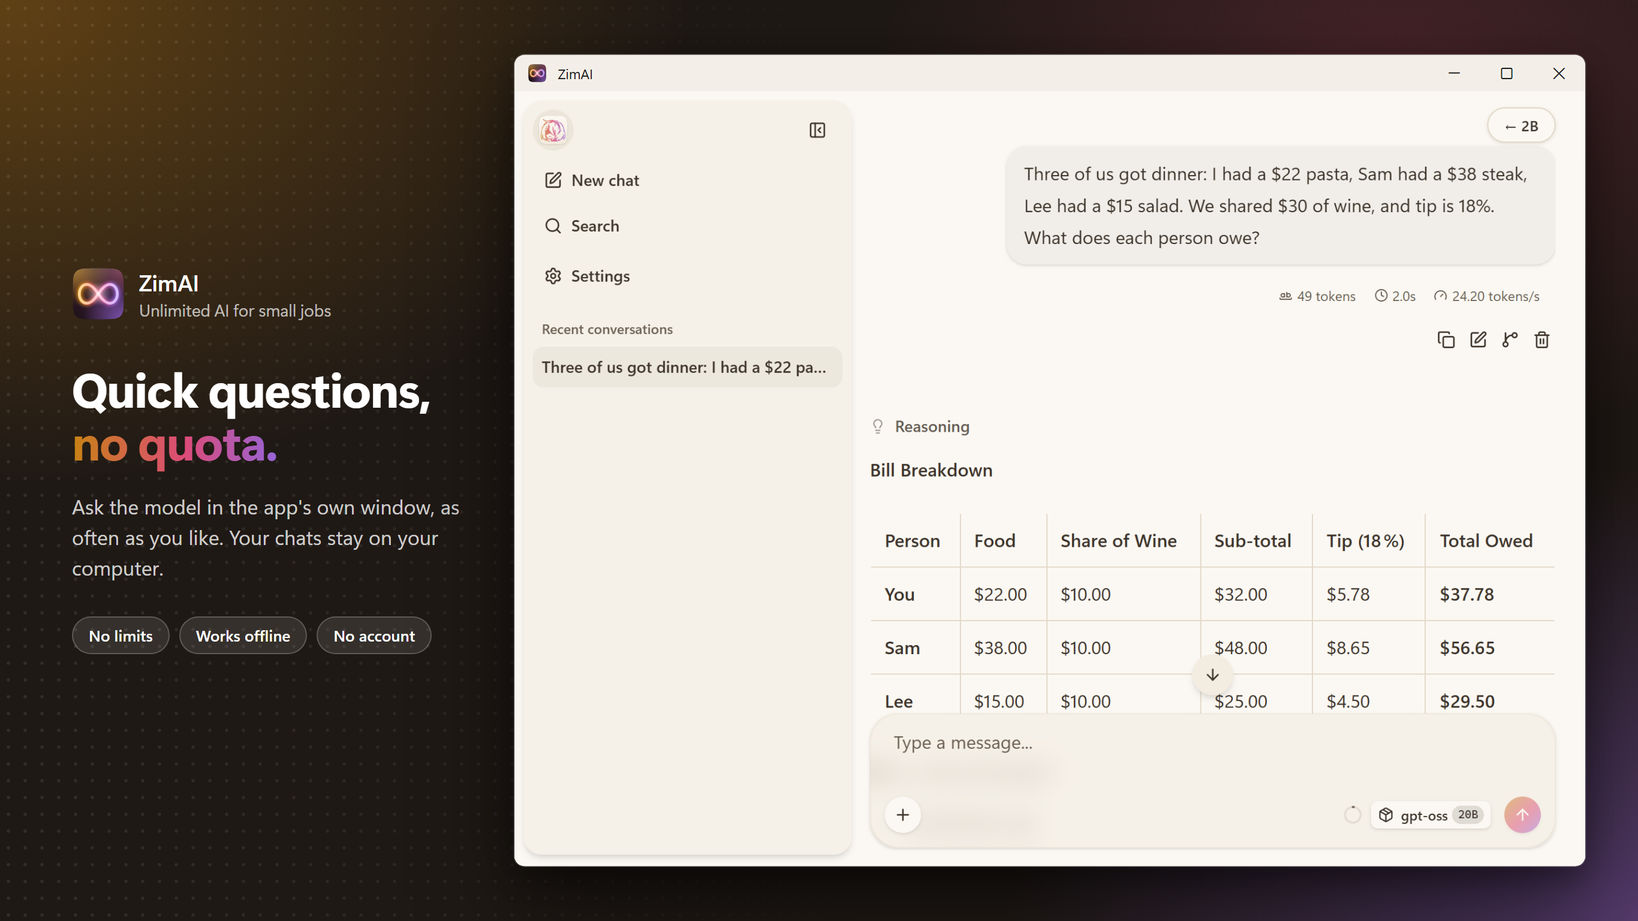
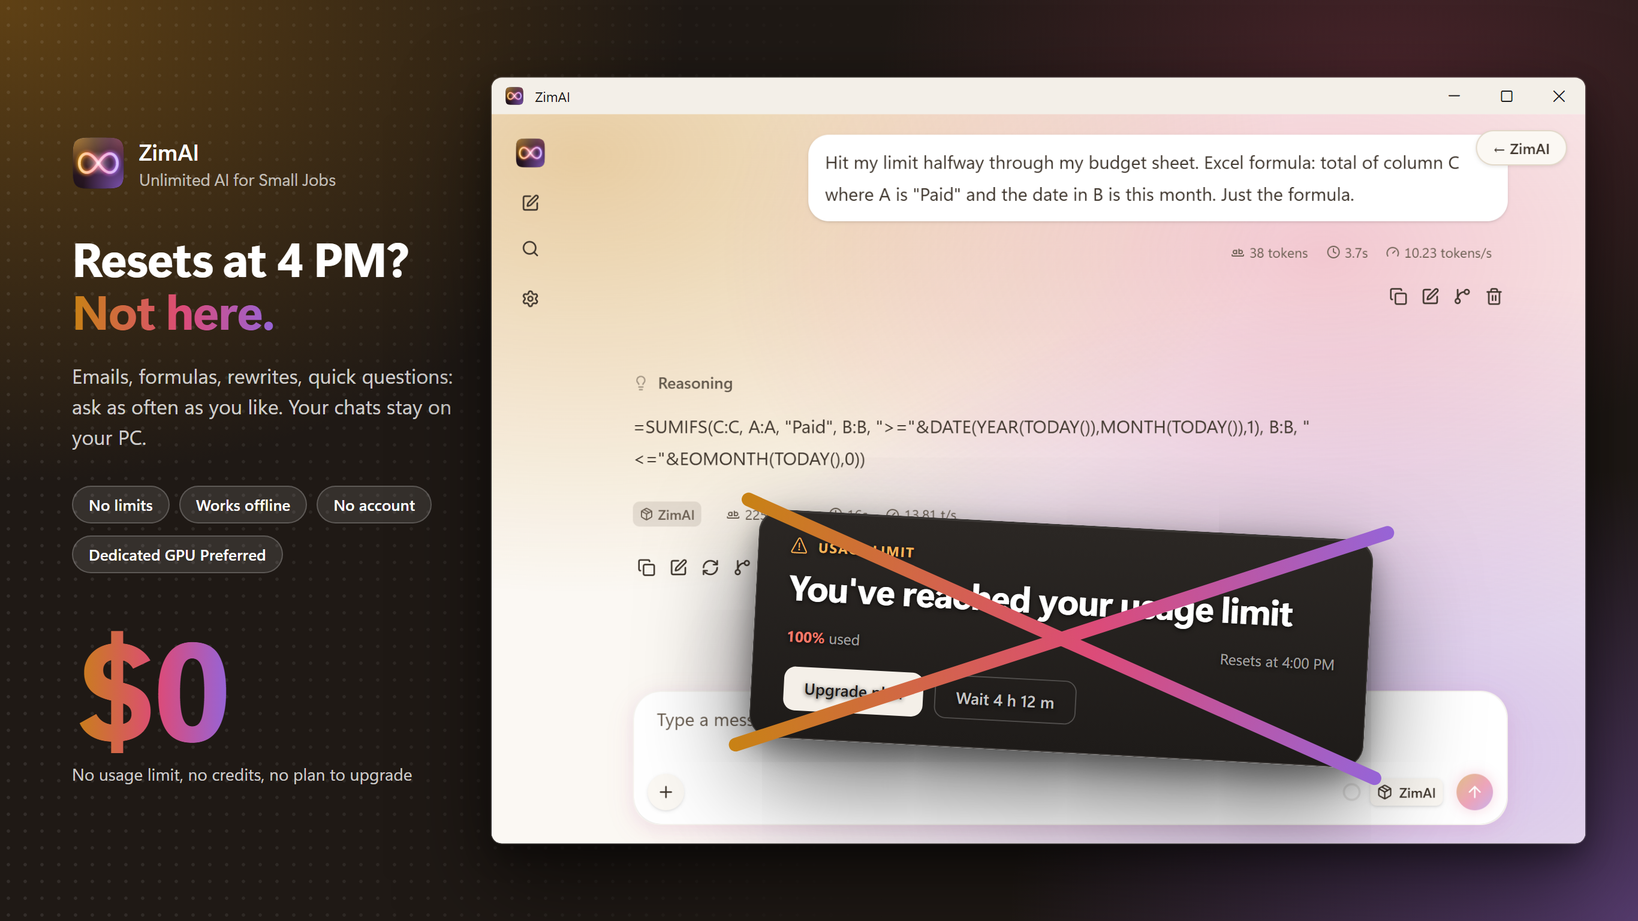
Store screenshots: the usage limit, crossed out; the slogan in title case
Four screenshots, one line each from POSITIONING.md: "Hit your limit? Keep
going.", "Resets at 4 PM? Not here.", "Your AI runs out. Your PC didn't." and
"The AI that never says come back later." Shots 1 and 2 show a job cut off
mid-task (an email, an Excel formula) finished in Chat, under a generic
usage-limit dialog crossed out by a big X; shot 3 the home page with Chat
hovered; shot 4 the terminal. Every shot has the same pills, Dedicated GPU
Preferred and a big $0. All show the app as it is now, at 960 x 640.

The Chat captures come from chat.ps1: the real model's answers in a headless
Edge with a profile of its own, styled as the window styles the page, in place
of the manual capture. "Unlimited AI for Small Jobs" is in title case
everywhere, the box art and poster included.

diff --git a/store-listing/generator/shots.html b/store-listing/generator/shots.html
@@ -1,9 +1,9 @@
 <!doctype html>
 <!-- The Store's screenshots: render.ps1 loads this page at 1366 x 768 (rendered at 2x) once per shot, named by the
-     hash (#promo, #chat, #home). Each is a caption on the left and the real app on the right: the home page
-     (src/ui/home.html) drawing the state ZimAI.exe would send it, the terminal demo (docs/demo.svg) stopped at a
-     moment, or a capture of the Chat page (chat.png). Needs Edge's --allow-file-access-from-files, to read those
-     files from file://. -->
+     hash (#limit, #chat, #home, #terminal). Each is a caption on the left, its line from docs/POSITIONING.md, and the
+     real app on the right: the home page (src/ui/home.html) drawing the state ZimAI.exe would send it, the terminal
+     demo (docs/demo.svg) stopped at a moment, or a capture of the Chat page (chat-*.png, by chat.ps1). Needs Edge's
+     --allow-file-access-from-files, to read those files from file://. -->
 <html lang="en">
 <head>
 <meta charset="utf-8">
@@ -21,48 +21,50 @@
   .caption p { margin: 20px 0 0; font: 400 17px/1.5 "Segoe UI Variable Text", "Segoe UI", sans-serif; color: rgba(255, 255, 255, 0.78); }
   /* One row, though it may run a few pixels past the column. */
   .facts { display: flex; gap: 8px; width: max-content; margin-top: 28px; }
-  /* #promo: the price, big, and what it means; then the model's numbers. */
+  .facts.gpu { margin-top: 10px; }   /* what it needs, on a row of its own */
+  /* Every shot: the price, big, and what it means. */
   .size { margin-top: 34px; width: 310px; }
-  .size b { display: block; width: max-content; font-size: 58px; line-height: 1; font-weight: 700; letter-spacing: -0.03em; }
+  .size b { display: block; width: max-content; font-size: 116px; line-height: 1; font-weight: 700; letter-spacing: -0.03em; }
   .scale { display: flex; justify-content: space-between; margin: 8px 0 0; font: 400 14px "Segoe UI Variable Text", "Segoe UI", sans-serif; color: rgba(255, 255, 255, 0.78); }
-  .stats { display: flex; gap: 30px; margin-top: 30px; }
-  .stats b { display: block; font-size: 28px; line-height: 1.1; font-weight: 700; }
-  .stats span { font: 400 13px/1.4 "Segoe UI Variable Text", "Segoe UI", sans-serif; color: rgba(255, 255, 255, 0.7); }
-  /* #home: the GPUs, by verdict: each verdict in its color, each GPU outlined in the brand gradient. */
-  .tier { margin-top: 22px; }
-  .verdict { display: flex; align-items: baseline; gap: 8px; font: 700 15px "Segoe UI Variable Text", "Segoe UI", sans-serif; }
-  .verdict b { font-weight: inherit; }
-  .verdict.great b { background: var(--brand); -webkit-background-clip: text; background-clip: text; color: transparent; }
-  .verdict.good b { color: #f07fa3; }
-  .verdict.slow b { color: #e8b25a; }
-  .verdict span { font-weight: 400; font-size: 14px; color: rgba(255, 255, 255, 0.6); }
-  .gpus { display: flex; flex-wrap: wrap; gap: 6px; margin-top: 9px; }
-  .gpus span {
-    padding: 4px 10px; border-radius: 999px; font: 600 12px "Segoe UI Variable Text", "Segoe UI", sans-serif;
-    border: 1px solid transparent;
+  /* #limit and #chat: the moment it's for, an AI's usage-limit dialog, generic (no product's look or words), over the part of
+     the window where it would stop you, and crossed out in the brand gradient. */
+  .wall { position: absolute; left: 230px; top: 392px; width: 540px; z-index: 3; transform: rotate(-3deg); }
+  .wall-card {
+    position: relative; padding: 22px 28px 24px; border-radius: 20px; color: #fff;
+    background: linear-gradient(180deg, #2b2724, #1e1b19); border: 1px solid rgba(255, 255, 255, 0.13);
+    box-shadow: inset 0 1px 0 rgba(255, 255, 255, 0.08), 0 34px 90px rgba(0, 0, 0, 0.6), 0 10px 26px rgba(0, 0, 0, 0.4);
+    font-family: "Segoe UI Variable Text", "Segoe UI", sans-serif;
   }
-  /* One gradient across the caption column (fixed to the page), not one per chip, so neighbours blend. */
-  .gpus span {
-    background: linear-gradient(#2a211c, #2a211c) padding-box, var(--brand) border-box;
-    background-attachment: scroll, fixed; background-size: auto, 330px 100%; background-position: 0 0, 60px 0;
+  .wall-head { display: flex; align-items: center; gap: 8px; font: 700 12px "Segoe UI", sans-serif; letter-spacing: 0.08em;
+               text-transform: uppercase; color: #f2b45a; }
+  .wall-head i { font: normal 15px "Segoe Fluent Icons", "Segoe MDL2 Assets"; }
+  .wall-card b { display: block; margin-top: 10px; font: 700 31px/1.12 "Segoe UI Variable Display", "Segoe UI", sans-serif;
+                 letter-spacing: -0.02em; }
+  .meter { margin-top: 18px; }
+  .meter-text { display: flex; justify-content: space-between; font-size: 13px; color: rgba(255, 255, 255, 0.6); }
+  .meter-text b { display: inline; margin: 0; font: 700 13px "Segoe UI", sans-serif; color: #f07a6a; letter-spacing: 0; }
+  .wall-buttons { display: flex; gap: 10px; margin-top: 18px; }
+  .wall-buttons span { padding: 9px 18px; border-radius: 10px; font: 600 14px "Segoe UI", sans-serif; }
+  .wall-buttons span:first-child { background: #f4efe8; color: #1e1b19; }
+  .wall-buttons span:last-child { border: 1px solid rgba(255, 255, 255, 0.22); color: rgba(255, 255, 255, 0.75); }
+  /* The cross: two strokes, corner past corner, on top of everything, the dialog's words included. */
+  .wall-card::before, .wall-card::after {
+    content: ""; position: absolute; left: -7%; right: -7%; top: 50%; height: 12px; margin-top: -6px; border-radius: 6px;
+    z-index: 2;
+    background: linear-gradient(90deg, var(--gold), var(--rose) 55%, var(--violet));
   }
-  /* #promo: the moment it's for, a cloud AI's usage-limit notice, generic (no product's look or words), dimmed. */
-  .limit {
-    display: flex; gap: 12px; align-items: flex-start; margin-bottom: 26px; padding: 13px 16px; border-radius: 10px;
-    background: rgba(255, 255, 255, 0.06); border: 1px solid rgba(255, 255, 255, 0.16);
-    font: 400 14px/1.45 "Segoe UI Variable Text", "Segoe UI", sans-serif; color: rgba(255, 255, 255, 0.62);
-  }
-  .limit i { font: normal 18px/1.2 "Segoe Fluent Icons", "Segoe MDL2 Assets"; color: #e8b25a; }
-  .limit b { display: block; font-weight: 600; color: rgba(255, 255, 255, 0.88); }
+  .wall-card::before { transform: rotate(21deg); }
+  .wall-card::after { transform: rotate(-21deg); }
+  .wall-card > * { position: relative; z-index: 1; text-shadow: 0 1px 4px rgba(0, 0, 0, 0.75); }
   .facts span {
     padding: 6px 13px; border-radius: 999px; font: 600 13px "Segoe UI Variable Text", "Segoe UI", sans-serif;
     background: rgba(255, 255, 255, 0.1); border: 1px solid rgba(255, 255, 255, 0.2);
   }
 
-  /* The window, at the app's own size (940 x 680, app/Window.cs), scaled to the height of the shot. */
+  /* The window, at the app's own size (960 x 640, app/Window.cs), scaled to clear the caption. */
   .window {
     position: absolute; right: 44px; top: 50%; transform-origin: right center; transform: translateY(-50%) scale(0.95);
-    width: 940px; border-radius: 9px; overflow: hidden; background: var(--bg);
+    width: 960px; border-radius: 9px; overflow: hidden; background: var(--bg);
     box-shadow: 0 0 0 1px rgba(255, 255, 255, 0.14), 0 32px 80px rgba(0, 0, 0, 0.55), 0 10px 24px rgba(0, 0, 0, 0.3);
   }
   /* A Windows 11 title bar, with the icon and title ZimAI.exe and its terminal both set. */
@@ -70,91 +72,96 @@
   .titlebar img { width: 16px; height: 16px; margin: 0 10px 0 12px; }
   .titlebar span { flex: 1; }
   .titlebar i { width: 46px; text-align: center; font: normal 10px "Segoe Fluent Icons", "Segoe MDL2 Assets"; }
-  .client { display: block; width: 940px; height: 680px; border: 0; background: var(--bg); }
+  .client { display: block; width: 960px; height: 640px; border: 0; background: var(--bg); }
   /* demo.svg without its own title bar; a line cut by the top of its screen fades out. */
-  svg.client { height: 685px; mask-image: linear-gradient(transparent 0, #000 36px); }
+  svg.client { mask-image: linear-gradient(transparent 0, #000 36px); }
 </style>
 </head>
 <body>
   <div class="caption">
-    <div class="app"><img src="../../src/ui/icon.svg" alt=""><span>ZimAI<small>Unlimited AI for small jobs</small></span></div>
-    <div id="limit"></div>
+    <div class="app"><img src="../../src/ui/icon.svg" alt=""><span>ZimAI<small>Unlimited AI for Small Jobs</small></span></div>
     <h1 id="title"></h1>
     <p id="text"></p>
     <div class="facts" id="facts"></div>
-    <div id="numbers"></div>
+    <div class="facts gpu"><span>Dedicated GPU Preferred</span></div>
+    <div class="size">
+      <b class="brand">$0</b>
+      <div class="scale"><span>No usage limit, no credits, no plan to upgrade</span></div>
+    </div>
   </div>
   <div class="window">
+    <div class="wall"><div class="wall-card">
+      <div class="wall-head"><i>&#xE7BA;</i>Usage limit</div>
+      <b>You've reached your usage limit</b>
+      <div class="meter">
+        <div class="meter-text"><span><b>100%</b> used</span><span>Resets at 4:00 PM</span></div></div>
+      <div class="wall-buttons"><span>Upgrade plan</span><span>Wait 4 h 12 m</span></div>
+    </div></div>
     <div class="titlebar"><img src="../../src/ui/icon.svg" alt=""><span>ZimAI</span><i>&#xE921;</i><i>&#xE922;</i><i>&#xE8BB;</i></div>
   </div>
 
 <script>
 // What ZimAI.exe sends the home page on this developer's PC (an RTX 5060 Laptop GPU with 8 GB and 16 GB of RAM), as in
-// app/*.cs; the plan is llama-fit-params' for it.
+// app/Window.cs (Push); the plan is the one its server ran with (logs/server-plan).
 const MODEL = { name: "GPT OSS 20B", size: 12109566624, parameters: "20.9", license: "Apache-2.0", need: 12109566624, free: 412e9, drive: "C:" };
-const SYSTEM = { name: "NVIDIA GeForce RTX 5060 Laptop GPU", vram: 8, ram: 16, cuda: "12.8", gpuUsable: true, useGpu: true,
+const SYSTEM = { name: "NVIDIA GeForce RTX 5060 Laptop GPU", vram: 8, ram: 15.7, cuda: "12.8", gpuUsable: true, useGpu: true,
                  verdict: "good", reason: null };
 const READY = {
   version: "1.1.0", system: SYSTEM, model: { ...MODEL, ready: true }, download: null,
-  server: { state: "ready", plan: { context: 65536, gpu: 5896, ram: 7673 } }, error: null,
+  server: { state: "ready", plan: { context: 131072, gpu: 5880, ram: 10907, mapped: 1 } }, error: null,
 };
 
-// The promo shot's numbers: what it costs (nothing, however much it's used), then the model.
-const NUMBERS = `
-      <div class="size">
-        <b class="brand">$0</b>
-        <div class="scale"><span>No credits, no rate limits, no account, no API key</span></div>
-      </div>
-      <div class="stats">
-        <div><b>20.9&nbsp;B</b><span>total<br>parameters</span></div>
-        <div><b>128&nbsp;k</b><span>tokens of context<br>on a GPU</span></div>
-      </div>`;
-
-// Popular GPUs by the verdict ZimAI's check gives them (app/Requirements.cs), with 16 GB of RAM: Great is 16 GB of
-// VRAM or more, Good is an RTX with 8 to 12 GB, Slow is 6 GB or a GTX 10-series (no tensor cores).
-const GPUS = [
-  ["great", "Great", "the whole model on the GPU", ["RTX 5090", "RTX 5080", "RTX 5070 Ti", "RTX 5060 Ti 16 GB", "RTX 4090", "RTX 4080", "RTX 4070 Ti Super", "RTX 4060 Ti 16 GB", "RTX 3090"]],
-  ["good", "Good", "desktop and laptop", ["RTX 5070", "RTX 5060", "RTX 4070", "RTX 4060", "RTX 3080", "RTX 3070", "RTX 3060 12 GB", "RTX 2080", "RTX 2070", "RTX 2060 Super"]],
-  ["slow", "Slow", "works, replies come slower", ["RTX 2060", "GTX 1660", "GTX 1080 Ti", "GTX 1080", "GTX 1070", "GTX 1060 6 GB"]],
-].map(([tier, verdict, note, names]) => `
-  <div class="tier ${tier}"><div class="verdict ${tier}"><b>${verdict}</b><span>${note}</span></div>
-  <div class="gpus">${names.map(n => `<span>${n}</span>`).join("")}</div></div>`).join("");
-
-// The same on every shot: what it needs, and what it doesn't.
+// The same on every shot, with the GPU pill and the price (above): what it needs, and what it doesn't.
 const FACTS = ["No limits", "Works offline", "No account"];
 
-// Each shot: its caption, the need it meets in the customer's words, and what's in the window: a home page state,
-// the demo at a time (s), or an image of the window's contents at 940 x 680 (chat.png: a capture of the real Chat
-// page, at 2x).
+// Each shot, in upload order: its line (docs/POSITIONING.md), the need it meets in the customer's words, and what's
+// in the window: a home page state, the demo at a time (s), or an image of the window's contents at 960 x 640
+// (chat-*.png: captures of the real Chat page at 2x, by chat.ps1).
 const SHOTS = {
-  promo: {
-    limit: true,
-    title: 'Out of credits? <span class="brand">Not here.</span>',
-    text: "For the jobs your cloud AI's limits shouldn't go to. It reads, runs and edits on your PC, asking first.",
-    numbers: NUMBERS,
-    demo: 12.3,
+  limit: {
+    title: 'Hit your limit? <span class="brand">Keep going.</span>',
+    text: "When your AI stops halfway through, ZimAI picks up the job, on your own PC, with no limit of its own.",
+    image: "chat-limit.png",
+    wall: true,
   },
   chat: {
-    title: 'Quick questions, <span class="brand">no quota.</span>',
-    text: "Ask the model in the app's own window, as often as you like. Your chats stay on your computer.",
-    image: "chat.png",
+    title: 'Resets at 4 PM? <span class="brand">Not here.</span>',
+    text: "Emails, formulas, rewrites, quick questions: ask as often as you like. Your chats stay on your PC.",
+    image: "chat-everyday.png",
+    wall: true,
+    tilt: 3,   // the other way from shot 1's, so the two don't look copied
   },
   home: {
-    title: 'On the PC <span class="brand">you already have.</span>',
-    text: "Your GeForce, or just the CPU. ZimAI checks your PC before downloading, then fits the model to it.",
-    numbers: GPUS,
+    title: "Your AI runs out. <span class=\"brand\">Your PC didn't.</span>",
+    text: "It runs on your own PC: your GeForce, or just the CPU. ZimAI checks it before downloading, then fits the model to it.",
     home: READY,
+    hover: "chat",   // the home page's Chat card, as under the pointer
+  },
+  terminal: {
+    title: 'The AI that never says <span class="brand">come back later.</span>',
+    text: "For developers, a terminal that works in your projects. It reads, runs and edits on your PC, asking first.",
+    demo: 12.3,
   },
 };
+
+// An element of the home page shown as under the pointer: the page's own :hover rules, given to it as a class.
+function hover(doc, id) {
+  const sheet = [...doc.styleSheets].find(s => s.ownerNode.tagName === "STYLE");
+  for (const rule of [...sheet.cssRules]) {
+    if (rule.selectorText && rule.selectorText.includes(":hover")) {
+      sheet.insertRule(rule.cssText.replaceAll(":hover", ".hover"), sheet.cssRules.length);
+    }
+  }
+  doc.getElementById(id).classList.add("hover");
+}
 
 const shot = SHOTS[location.hash.slice(1)];
 if (!shot) throw new Error("Unknown shot " + location.hash);
-document.getElementById("limit").outerHTML = shot.limit
-  ? `<div class="limit"><i>&#xE7BA;</i><span><b>You've reached your usage limit.</b>Your limit resets in 4 h 12 m.</span></div>` : "";
+if (!shot.wall) document.querySelector(".wall").remove();
+else if (shot.tilt) document.querySelector(".wall").style.transform = `rotate(${shot.tilt}deg)`;
 document.getElementById("title").innerHTML = shot.title;
 document.getElementById("text").textContent = shot.text || "";
 if (!shot.text) document.getElementById("text").remove();
-document.getElementById("numbers").innerHTML = shot.numbers || "";
 document.getElementById("facts").innerHTML = FACTS.map(f => `<span>${f}</span>`).join("");
 const win = document.querySelector(".window");
 
@@ -164,7 +171,10 @@ if (shot.image) {
   const frame = document.createElement("iframe");
   frame.className = "client";
   frame.src = "../../src/ui/home.html";
-  frame.onload = () => frame.contentWindow.render(shot.home);
+  frame.onload = () => {
+    frame.contentWindow.render(shot.home);
+    if (shot.hover) hover(frame.contentDocument, shot.hover);
+  };
   win.append(frame);
 } else {
   // The demo, stopped at its time, without its own (macOS-style) title bar: the window has one.
@@ -172,7 +182,7 @@ if (shot.image) {
     win.insertAdjacentHTML("beforeend", text);
     const svg = win.querySelector("svg");
     svg.classList.add("client");
-    svg.setAttribute("viewBox", "0 35 940 685");
+    svg.setAttribute("viewBox", "0 35 940 627");   // 960 x 640: the demo's 940 width, scaled up to fit
     svg.querySelectorAll(":scope > rect, :scope > circle, :scope > .ttl").forEach(e => e.remove());
     svg.getAnimations({ subtree: true }).forEach(a => { a.pause(); a.currentTime = shot.demo * 1000; });
   });

diff --git a/src/ui/home.html b/src/ui/home.html
@@ -156,7 +156,7 @@
     <img src="icon.svg" alt="">
     <div>
       <h1>Zim<span>AI</span></h1>
-      <p>Unlimited AI for small jobs, on your own PC.</p>
+      <p>Unlimited AI for Small Jobs, on your own PC.</p>
     </div>
   </header>
 

diff --git a/store-listing/generator/logo.html b/store-listing/generator/logo.html
@@ -26,6 +26,6 @@
 <body>
   <img src="../../src/ui/icon.svg" alt="">
   <h1>Zim<span class="brand">AI</span></h1>
-  <p>Unlimited AI for small jobs</p>
+  <p>Unlimited AI for Small Jobs</p>
 </body>
 </html>

diff --git a/docs/RELEASING.md b/docs/RELEASING.md
@@ -90,9 +90,9 @@ powershell -ExecutionPolicy Bypass -File store-listing\generator\render.ps1
 
 It redraws the images in `store-listing/` with Microsoft Edge in headless mode, from `generator/logo.html` (box
 art, poster art, tile icon) and `generator/shots.html` (the screenshots). The screenshots show the real home page, `src/ui/home.html`, drawing
-the state written in `shots.html`, and the README's terminal demo, `docs/demo.svg`, stopped at a moment. Change the
-captions or the state there, and the system requirements in `LISTING.md` when `Requirements` in `src/app/Requirements.cs`
-changes.
+the state written in `shots.html`, the README's terminal demo, `docs/demo.svg`, stopped at a moment, and two captures
+of the Chat page (below). Their lines come from `docs/POSITIONING.md`. Change the captions or the state in
+`shots.html`, and the system requirements in `LISTING.md` when `Requirements` in `src/app/Requirements.cs` changes.
 
 When `src/ui/icon.svg` changes, rebuild `icon.ico` first, then re-render:
 
@@ -100,16 +100,17 @@ When `src/ui/icon.svg` changes, rebuild `icon.ico` first, then re-render:
 powershell -ExecutionPolicy Bypass -File store-listing\generator\icon.ps1
 ```
 
-The Chat screenshot is the exception: `store-listing/generator/chat.png` is a capture, since the Chat page is llama-server's own and
-only runs with the model loaded. Retake it when that page or `src/ui/chat.css` changes, then re-render. In the app,
-click Chat, start a new chat and send:
+The Chat screenshots are captures: `store-listing/generator/chat-*.png`, since the Chat page is llama-server's own
+and only runs with the model loaded. Retake them when that page, `src/ui/chat.css` or the window's script for it
+(`ChatScript` in `src/app/Window.cs`) changes, then re-render. Open ZimAI, click Start, wait for Server Ready, and run:
 
-```text
-Three of us got dinner: I had a $22 pasta, Sam had a $38 steak, Lee had a $15 salad. We shared $30 of wine, and tip is 18%. What does each person owe?
+```powershell
+powershell -ExecutionPolicy Bypass -File store-listing\generator\chat.ps1
 ```
 
-Once the answer has finished, capture the window's contents without its title bar at 200% scaling, so the file is
-1880 × 1360 (940 × 680 at 2x), and save it over `store-listing/generator/chat.png`.
+It sends each capture's message (in the script) to the real model in a headless Edge with a profile of its own, so the
+app's chat history is untouched, and saves the window's contents at 960 × 640, 2x. The answers differ each run: look
+at both before re-rendering, and run it again if one doesn't fit the window.
 
 ## Explanation
 

diff --git a/docs/POSITIONING.md b/docs/POSITIONING.md
@@ -7,7 +7,8 @@ listing, the screenshots or the demo, and before adding a feature: if it doesn't
 
 > **A free, unlimited AI on your own PC for the small jobs, for when your AI hits its usage limit mid-task.**
 
-**Slogan: "Unlimited AI for small jobs."** Second line: "Out of credits? Not here." Both stay as the headline of the
+**Slogan: "Unlimited AI for Small Jobs."**, in title case wherever it appears. Second line: "Out of credits? Not
+here." Both stay as the headline of the
 README, the Store listing, the box art and the app.
 
 ZimAI is **advertised as AI, not as an agent**. The agent is how it does the work in a terminal, not what it's sold as.
@@ -54,10 +55,14 @@ One line each, in upload order. Each pairs a line with what it shows:
 | - | ------------------------------------------ | --------------------------------------------------------------------------------- |
 | 1 | Hit your limit? Keep going.                | the moment: a usage-limit banner, generic, and ZimAI picking up the job           |
 | 2 | Resets at 4 PM? Not here.                  | Chat finishing an everyday job (an email, a rewrite) with no clock running        |
-| 3 | The AI that never says *come back later*.  | the terminal doing a developer's small job in their project                       |
-| 4 | Your AI ran out. Yours didn't.             | the home page: it's on your own PC, checked and ready (the GPUs it runs on)       |
+| 3 | Your AI runs out. Your PC didn't.          | the home page: it's on your own PC, checked and ready                             |
+| 4 | The AI that never says *come back later*.  | the terminal doing a developer's small job in their project                       |
 
-The screenshots follow the app as it is (the 960 × 640 window, the home page without pills).
+The screenshots follow the app as it is (the 960 × 640 window, the home page without pills). Every one carries the
+same frame: under its line, the pills No limits, Works offline, No account, and on a row of its own, Dedicated GPU
+Preferred; then the price, $0. Shots 1 and 2 name the pain loudly, in the picture, not in a footnote: over the lower
+part of the window, where the limit would stop you, a generic usage-limit dialog (100% used, resets at 4:00 PM,
+Upgrade plan, Wait) crossed out by a big ✕ in the brand gradient, on top of every layer.
 
 ## How it talks
 

diff --git a/store-listing/LISTING.md b/store-listing/LISTING.md
@@ -37,7 +37,7 @@ by hand. Images are beside this file (the screenshots in [desktop/](desktop/)), 
 ### Description
 
 ```
-Unlimited AI for small jobs. Out of credits? Not here.
+Unlimited AI for Small Jobs. Out of credits? Not here.
 
 You're halfway through something and your AI stops: "You've reached your usage limit. Resets at 4:00 PM." You can wait hours, pay for the next plan up, or do it by hand, which you stopped doing a while ago.
 
@@ -115,8 +115,8 @@ Upload in this order (the first is shown first). The line on each is fixed in
 
 1. `desktop/screenshot-1-limit.png`: Hit your limit? Keep going. (a generic usage-limit banner, and ZimAI picking up the job)
 2. `desktop/screenshot-2-chat.png`: Resets at 4 PM? Not here. (Chat finishing an everyday job)
-3. `desktop/screenshot-3-terminal.png`: The AI that never says *come back later*. (the terminal, a developer's small job)
-4. `desktop/screenshot-4-home.png`: Your AI ran out. Yours didn't. (the home page, on your own PC)
+3. `desktop/screenshot-3-home.png`: Your AI runs out. Your PC didn't. (the home page, on your own PC)
+4. `desktop/screenshot-4-terminal.png`: The AI that never says *come back later*. (the terminal, a developer's small job)
 
 ### Store logos
 

diff --git a/README.md b/README.md
@@ -12,9 +12,10 @@
   to: the commit message after a big rework, a quick search, a rename, an error you don't recognize.
   No limits, no account, nothing leaves your PC.</p>
 
-  <img src="store-listing/desktop/screenshot-1-promo.png">
+  <img src="store-listing/desktop/screenshot-1-limit.png">
   <img src="store-listing/desktop/screenshot-2-chat.png">
   <img src="store-listing/desktop/screenshot-3-home.png">
+  <img src="store-listing/desktop/screenshot-4-terminal.png">
 
 </div>
 
